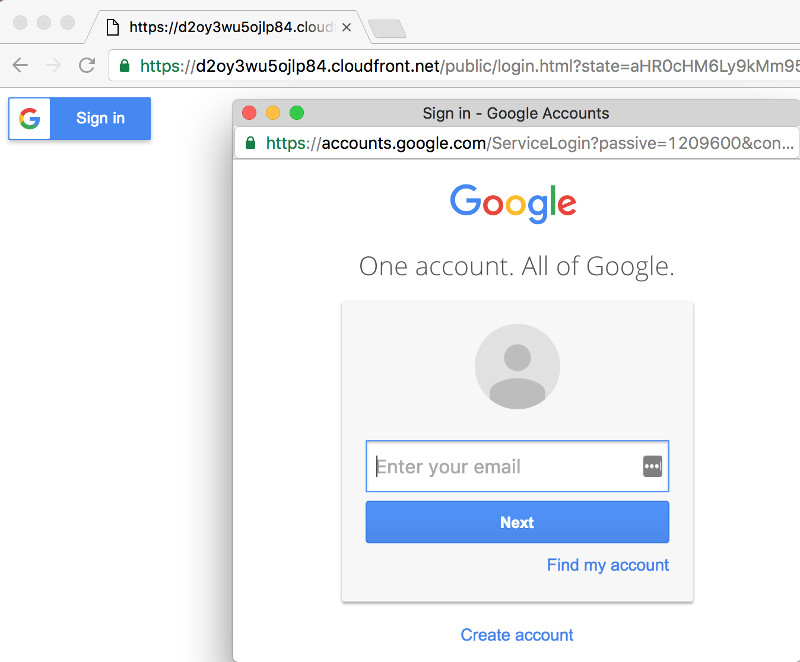
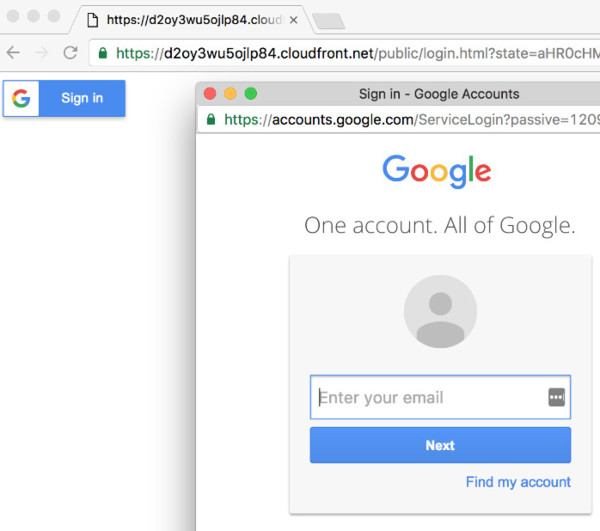
resizing images in blog

diff --git a/css/landing-page.css b/css/landing-page.css
@@ -69,6 +69,12 @@ h6 {
     text-shadow: 2px 2px 3px rgba(0,0,0,0.6);
 }
 
+article img {
+  border-style: solid;
+  border-width: 1px;
+  border-color: gray;
+}
+
 @media(max-width:767px) {
     .intro-message {
         padding-bottom: 15%;

diff --git a/_drafts/2016-10-03-cloudfront-security.md b/_drafts/2016-10-03-cloudfront-security.md
@@ -1,13 +1,13 @@
 ---
 layout:     post
-title:      "Securing your Cloudfront distribution"
-subtitle:   "Making your enterprise website secure, scalable and worry free"
-date:       2016-09-26 00:00:00
+title:      "Securing CloudFront"
+subtitle:   "Secure, scalable and worry free websites"
+date:       2016-10-03 00:00:00
 author:     "Chris Coffman"
 header-img: "img/blog/launch.jpg"
 ---
 
-Recently, I was developing a website for a fortune 200 company that needed to be globally available. The site also needed to be secured so only employees could access the content. Up to this point I had been hosting my websites in AWS EC2 instances and I wanted to try hosting this site using S3 and CloudFront. I ran into an issue securing the site. We had been using a security gateway to provide security to our VPC. If I was going to secure CloudFront, what was the best way to enable security?
+Recently, I was developing a website for a company that needed to be globally available. The site also needed to be secured so only employees could access the content. Up to this point I had been hosting my websites in AWS EC2 instances and I wanted to try hosting this site using S3 and CloudFront. I ran into an issue securing the site. We had previously been using a security gateway to provide security to our VPC. If I was going to secure CloudFront, what was the best way to enable security?
 
 The solution suggested by Amazon documentation is to use pre-signed URLs or CloudFront cookies. Cookies are a simple solution when the majority of your website is hosted in CloudFront. They also work best when accessing videos in modern formats such as HLS and MPEG Dash. So, how do you generate the cookies and set in the browser, but only for authenticated users?
 
@@ -83,7 +83,7 @@ The Lambda calls the Google auth-token API with the user's OpenID token to obtai
 
 After the login page successfully invoked the Lambda using the AWS SDK, it then manually sets the cookies in the browser. The code then validates the redirect location to prevent URL redirection attacks. The login page can then redirect the user back to their originally requested content. With the cookies set the user can view all secured pages in their browser.
 
-And that's it! There are several really cool advantages to taking this approach. We are not hosting any servers, so we never have to maintain or scale them. We are using federated identity built into AWS, which can integrate with a lot more than just Google. That means we can easily let users log in or sign up with their various personal accounts, without the overhead of maintaining an identity store. And finally, we are taking advantage of CloudFront, which makes our website load quickly by caching our content in edge locations around the globe!
+There are several really cool advantages to taking this approach. We are not hosting any servers, so we never have to maintain or scale them. We are using federated identity built into AWS, which can integrate with a lot more than just Google. That means we can easily let users log in or sign up with their various personal accounts, without the overhead of maintaining an identity store. And finally, we are taking advantage of CloudFront, which makes our website load quickly by caching our content in edge locations around the globe.
 
 So feel free to contact me with any questions. Look over the code in the github repo and try it yourself. With some small adjustments this can be working to secure your web application in no time at all.
 
